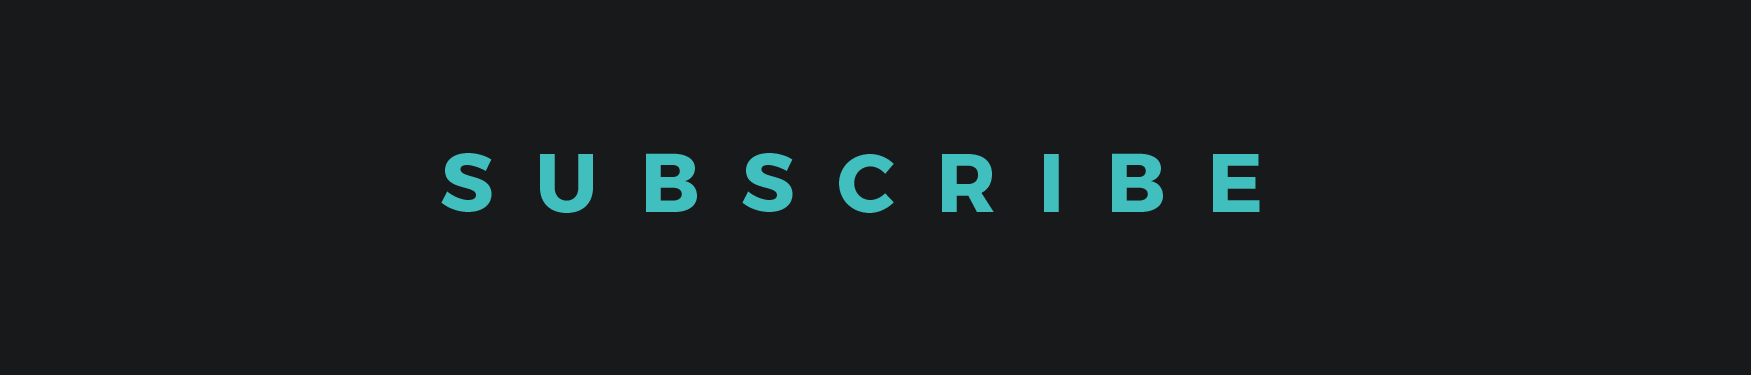
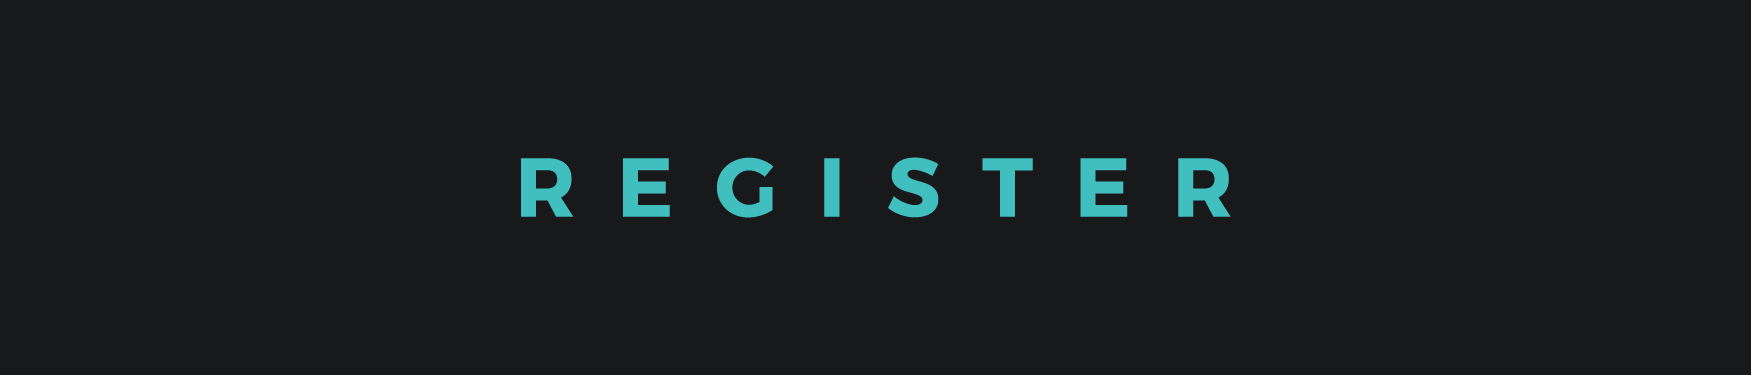
cache

Changed region(s): [[0.2467, 0.4107, 0.7401, 0.5867]]

diff --git a/en.html b/en.html
@@ -21,16 +21,16 @@
         <h4 class="modal-title">CONTACT</h4>
       </div>
       <div class="modal-body">
-       <p>GODSTER TEAM WILL BE IN OTUCH WITH YOU FOR FURTHER INFORMATION</p>
+         <p>GODSTER TEAM WILL BE IN OTUCH WITH YOU FOR FURTHER INFORMATION</p>
        <div class="input-group">
-        <input type="text" class="form-control" placeholder="Recipient's username" PLACEHOLDER="E-MAIL" aria-describedby="basic-addon2">
+        <input type="text" class="form-control" placeholder="E-MAIL" aria-describedby="basic-addon2">
         <span class="input-group-addon" id="basic-addon2">SEND</span>
       </div>
          <p>THABK YOU!<BR>THE BEST NEW APP ITS ALMOST HERE</p>
      
       </div>
       <div class="modal-footer">
-        <button type="button" class="btn btn-default" data-dismiss="modal">Close</button>
+          <img height="40" class="foot" src="img/Logo_login.png" width="100"/>
       </div>
     </div>
   </div>

diff --git a/css/appStyle.css b/css/appStyle.css
@@ -286,11 +286,47 @@ img{
 .input-group{
         width: 80%;
     margin: auto;
-    margin-top: 10px;
-    margin-bottom: 10px;
+    margin-top: 50px;
+    margin-bottom: 50px;
+}
+.input-group input{
+       height: 25px;
 }
 .modal-content{
+  text-align: center;
+    padding: 10px 96px;
+}
+.modal-body p{
+        font-size: 13px;
+    letter-spacing:3px;
+}
+.input-group span{
+    background: #40BFBD;
+    padding: 13px 36px;
+}
+.input-group input{
+   border: 1px solid #40BFBD;
+}
+.input-group .form-control {
+    position: relative;
+    z-index: 2;
+    width: 92%;
+    border-radius: 0px;
+    color: #fff;
+    padding-right: 0px;
+}
+.modal-title{
+    color:#40BFBD;
+    letter-spacing: 37px;
+    
+}
+.close{
+    visibility: hidden;
+}
+.foot{
+    height: 50px;   
+    width: 100px;
+}
+.modal-footer{
     text-align: center;
-    
-    
 }
